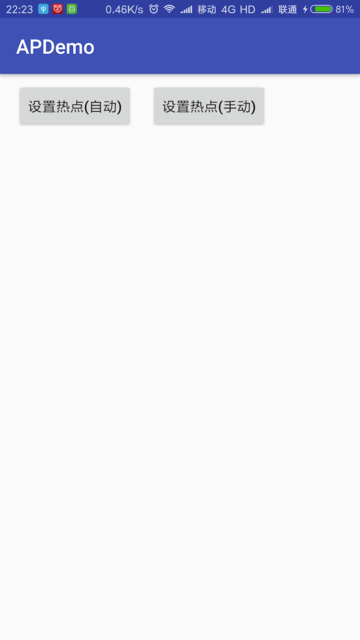
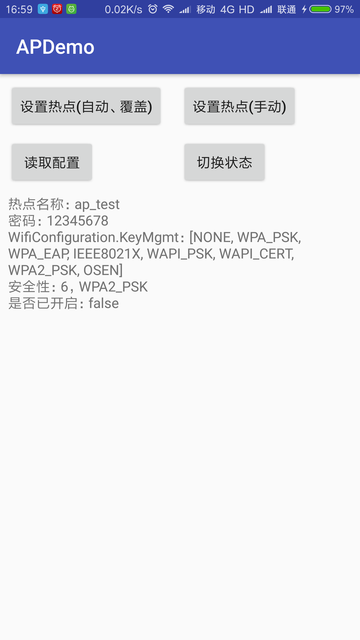
1、增加读取配置信息方法getWiFiAPConfig() 2、增加热点状态切换方法switchWifiApEnabled() 3、改变自定义WPA2_PSK类型热点时的设置方法，不再根据ROM判断

diff --git a/app/src/main/java/flystudio/com/apdemo/MainActivity.java b/app/src/main/java/flystudio/com/apdemo/MainActivity.java
@@ -8,24 +8,31 @@ import android.net.wifi.WifiConfiguration;
 import android.net.wifi.WifiManager;
 import android.os.Build;
 import android.os.Bundle;
-import android.os.Environment;
 import android.provider.Settings;
 import android.support.v7.app.AppCompatActivity;
 import android.view.View;
+import android.widget.TextView;
 import android.widget.Toast;
 
-import java.io.File;
-import java.io.FileInputStream;
-import java.io.IOException;
+import java.lang.reflect.InvocationTargetException;
 import java.lang.reflect.Method;
-import java.util.Properties;
+import java.util.Arrays;
+import java.util.Locale;
 
+/**
+ * 本类仅为测试使用，为了方便copy，所以一些变量没有声明为全局的，如wifiManager
+ */
 public class MainActivity extends AppCompatActivity {
+    private TextView tvInfo;
+    private boolean isOpen = false;
 
     @Override
     protected void onCreate(Bundle savedInstanceState) {
         super.onCreate(savedInstanceState);
         setContentView(R.layout.activity_main);
+
+        tvInfo = (TextView) findViewById(R.id.tvInfo);
+        getWiFiAPConfig();
     }
 
     public void onClick(View v) {
@@ -50,11 +57,18 @@ public class MainActivity extends AppCompatActivity {
             case R.id.btnManualAP:
                 openAPUI();
                 break;
+            case R.id.btnReadSetting:
+                getWiFiAPConfig();
+                break;
+            case R.id.btnSwitch:
+                isOpen = !isOpen;
+                switchWifiApEnabled(isOpen);
+                break;
         }
     }
 
     /**
-     * wifi热点开关
+     * 自定义wifi热点
      *
      * @param enabled 开启or关闭
      * @return
@@ -79,7 +93,15 @@ public class MainActivity extends AppCompatActivity {
             //指定安全性为WPA_PSK，在不支持WPA_PSK的手机上看不到密码
             //apConfig.allowedKeyManagement.set(WifiConfiguration.KeyMgmt.WPA_PSK);
             //指定安全性为WPA2_PSK，（官方值为4，小米为6，如果指定为4，小米会变为无密码热点）
-            apConfig.allowedKeyManagement.set(isMIUI() ? 6 : 4);
+            int indexOfWPA2_PSK = 4;
+            //从WifiConfiguration.KeyMgmt数组中查找WPA2_PSK的值
+            for (int i = 0; i < WifiConfiguration.KeyMgmt.strings.length; i++) {
+                if (WifiConfiguration.KeyMgmt.strings[i].equals("WPA2_PSK")) {
+                    indexOfWPA2_PSK = i;
+                    break;
+                }
+            }
+            apConfig.allowedKeyManagement.set(indexOfWPA2_PSK);
             //通过反射调用设置热点
             Method method = wifiManager.getClass().getMethod("setWifiApEnabled", WifiConfiguration.class, boolean.class);
             //返回热点打开状态
@@ -96,26 +118,42 @@ public class MainActivity extends AppCompatActivity {
     }
 
     /**
-     * 判断是否为MIUI系统，参考http://blog.csdn.net/xx326664162/article/details/52438706
+     * 切换状态
      *
+     * @param enabled
      * @return
      */
-    public static boolean isMIUI() {
-        try {
-            String KEY_MIUI_VERSION_CODE = "ro.miui.ui.version.code";
-            String KEY_MIUI_VERSION_NAME = "ro.miui.ui.version.name";
-            String KEY_MIUI_INTERNAL_STORAGE = "ro.miui.internal.storage";
-            Properties prop = new Properties();
-            prop.load(new FileInputStream(new File(Environment.getRootDirectory(), "build.prop")));
-
-            return prop.getProperty(KEY_MIUI_VERSION_CODE, null) != null
-                    || prop.getProperty(KEY_MIUI_VERSION_NAME, null) != null
-                    || prop.getProperty(KEY_MIUI_INTERNAL_STORAGE, null) != null;
-        } catch (final IOException e) {
-            return false;
+    private boolean switchWifiApEnabled(boolean enabled) {
+        boolean result = false;
+        WifiManager wifiManager = (WifiManager) getApplicationContext().getSystemService(Context.WIFI_SERVICE);
+        if (wifiManager == null) {
+            return result;
         }
-    }
+        if (enabled) {
+            //wifi和热点不能同时打开，所以打开热点的时候需要关闭wifi
+            if (wifiManager.isWifiEnabled()) {
+                wifiManager.setWifiEnabled(false);
+            }
+        }
+        try {
+            Method method = wifiManager.getClass().getMethod("getWifiApConfiguration");
+            //读取已有热点配置信息
+            WifiConfiguration apConfig = (WifiConfiguration) method.invoke(wifiManager);
 
+            //通过反射调用设置热点
+            method = wifiManager.getClass().getMethod("setWifiApEnabled", WifiConfiguration.class, boolean.class);
+            //返回热点打开状态
+            result = (Boolean) method.invoke(wifiManager, apConfig, enabled);
+            if (!result) {
+                Toast.makeText(this, "热点创建失败，请手动创建！", Toast.LENGTH_SHORT).show();
+                openAPUI();
+            }
+        } catch (Exception e) {
+            Toast.makeText(this, "热点创建失败，请手动创建！", Toast.LENGTH_SHORT).show();
+            openAPUI();
+        }
+        return result;
+    }
 
     /**
      * 打开网络共享与热点设置页面
@@ -126,5 +164,61 @@ public class MainActivity extends AppCompatActivity {
         ComponentName comp = new ComponentName("com.android.settings", "com.android.settings.Settings$TetherSettingsActivity");
         intent.setComponent(comp);
         startActivity(intent);
+    }
+
+    /**
+     * 判断是否已打开WiFi热点
+     *
+     * @return
+     */
+    private boolean isWifiApEnabled() {
+        boolean isOpen = false;
+        try {
+            WifiManager wifiManager = (WifiManager) getApplicationContext().getSystemService(Context.WIFI_SERVICE);
+            Method method = wifiManager.getClass().getMethod("isWifiApEnabled");
+            isOpen = (boolean) method.invoke(wifiManager);
+        } catch (NoSuchMethodException e) {
+            e.printStackTrace();
+        } catch (IllegalAccessException e) {
+            e.printStackTrace();
+        } catch (InvocationTargetException e) {
+            e.printStackTrace();
+        }
+        return isOpen;
+    }
+
+    /**
+     * 读取热点配置信息
+     */
+    private void getWiFiAPConfig() {
+        try {
+            WifiManager wifiManager = (WifiManager) getApplicationContext().getSystemService(Context.WIFI_SERVICE);
+            Method method = wifiManager.getClass().getMethod("getWifiApConfiguration");
+            WifiConfiguration apConfig = (WifiConfiguration) method.invoke(wifiManager);
+            if (apConfig == null) {
+                tvInfo.setText("未配置热点");
+                return;
+            }
+            tvInfo.setText(String.format("热点名称：%s\r\n", apConfig.SSID));
+            tvInfo.append(String.format("密码：%s\n", apConfig.preSharedKey));
+            //使用apConfig.allowedKeyManagement.toString()返回{0}这样的格式，需要截取中间的具体数值
+            //下面几种写法都可以
+            //int index = Integer.valueOf(apConfig.allowedKeyManagement.toString().substring(1, 2));
+            //int index = Integer.valueOf(String.valueOf(apConfig.allowedKeyManagement.toString().charAt(1)));
+            //int index = Integer.valueOf(apConfig.allowedKeyManagement.toString().charAt(1)+"");
+            int index = apConfig.allowedKeyManagement.toString().charAt(1) - '0';
+            //从KeyMgmt数组中取出对应的文本
+            String apType = WifiConfiguration.KeyMgmt.strings[index];
+            tvInfo.append(String.format(Locale.getDefault(), "WifiConfiguration.KeyMgmt：%s\r\n", Arrays.toString(WifiConfiguration.KeyMgmt.strings)));
+            tvInfo.append(String.format(Locale.getDefault(), "安全性：%d，%s\r\n", index, apType));
+            isOpen = isWifiApEnabled();
+            tvInfo.append("是否已开启：" + isOpen);
+        } catch (NoSuchMethodException e) {
+            e.printStackTrace();
+        } catch (IllegalAccessException e) {
+            e.printStackTrace();
+        } catch (InvocationTargetException e) {
+            e.printStackTrace();
+        }
     }
 }

diff --git a/README.md b/README.md
@@ -1,5 +1,5 @@
 # APDemo
-Android创建WiFi热点研究(安全性为：无/WPA PSK/WPA2 PSK，Android6.0适配)
+AndroidWiFi热点完全研究(自定义创建、跳转系统界面设置、读取配置、切换，Android6.0适配)
 http://www.cnblogs.com/fly263/p/7341768.html
 
 PS：布局文件使用了ConstraintLayout，如果没有安装，需要在Android Studio中点击File-Settings-System Settings-Android SDK，切换到SDK Tools标签页，下载ConstraintLayout for Android、Solver for ConstraintLayout两个支持库
